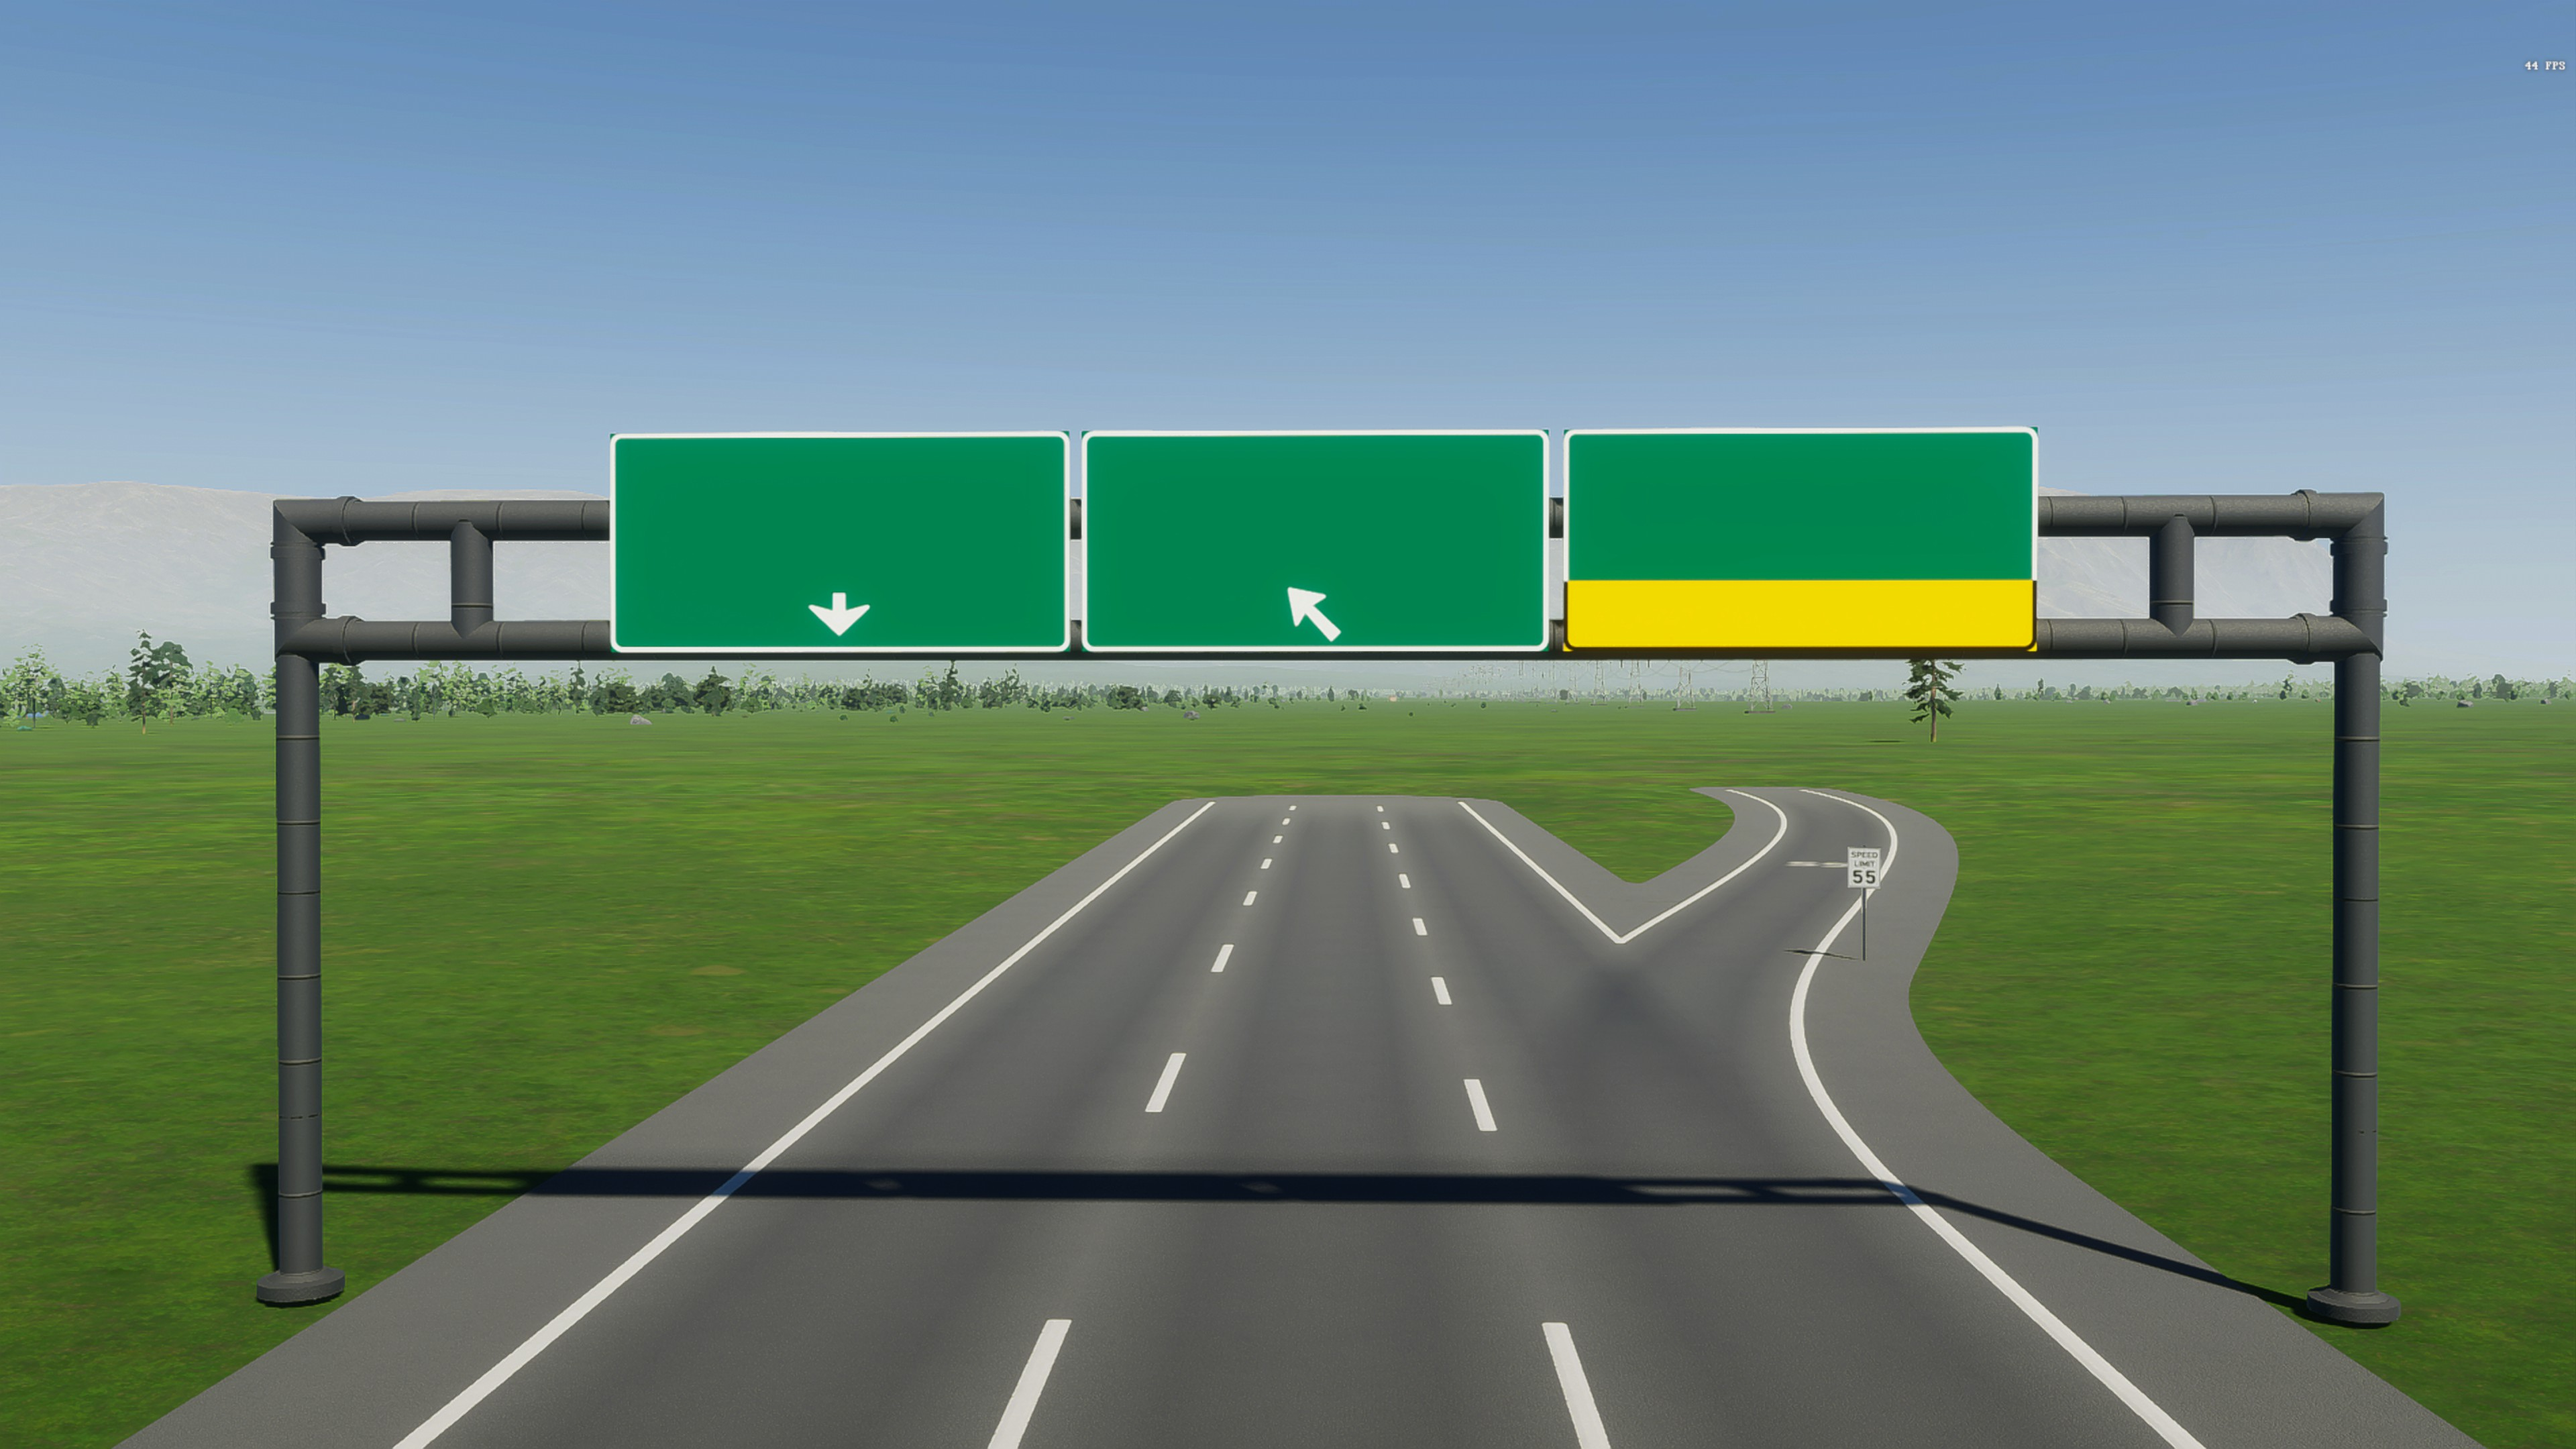
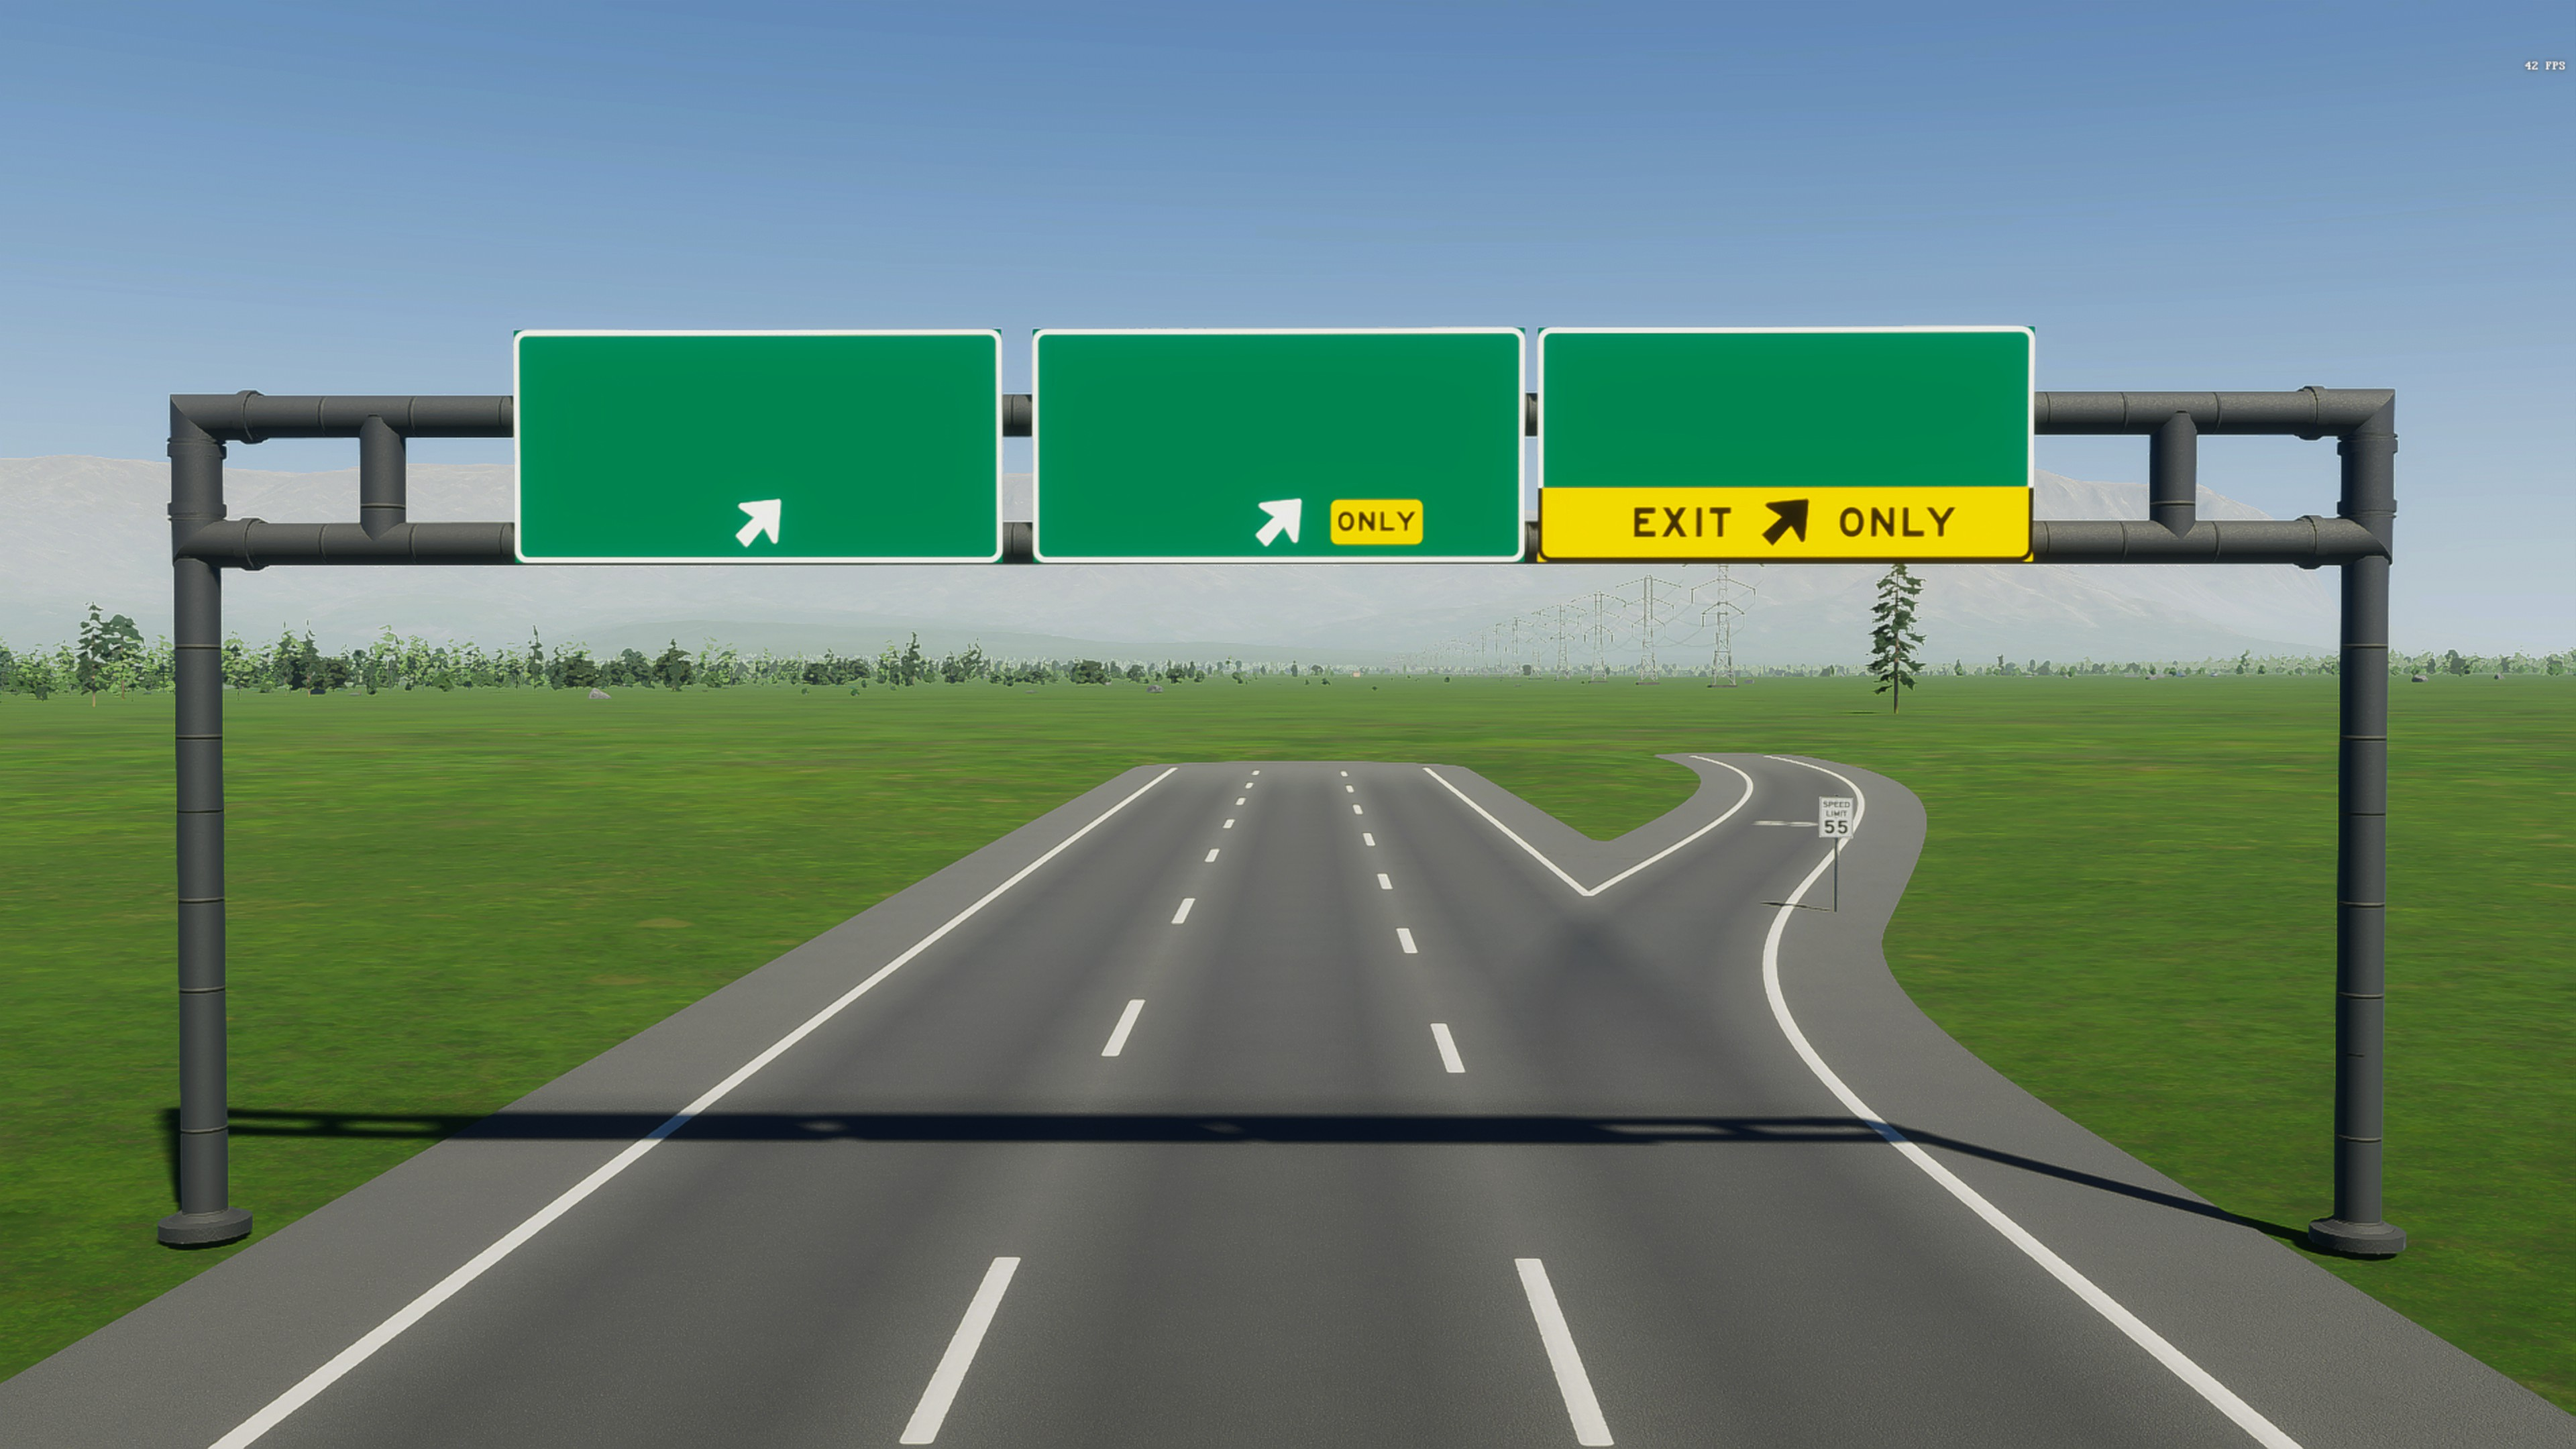
v1.1 Ext1 Atlas pack integration

diff --git a/_BaseModule/README.md b/_BaseModule/README.md
@@ -6,6 +6,7 @@ Hello Cities: Skylines II civil engineers! This is a **Write Everywhere Module**
 
 - 1 Lane (Medium) California Highway (Freeway) signs inspired by California's MUTCD
 - 37 total signs (see screenshots)
+- Additional 41 new signs with exit tab style 1 with Ext1 WE atlas pack (with v1.1 update)
 - WE Layout included for easy implementation onto your highways (freeways)
 
 ## How to Use
@@ -22,7 +23,7 @@ Hello Cities: Skylines II civil engineers! This is a **Write Everywhere Module**
 10. The layout will be added to WE's COMPONENTS TREE window. (see screenshot)
 11. Click the down arrow on 1LM CA Highway Sign.
 12. Select Sign Image.
-13. On the CONTENT window, set Atlas to 1LM CA Highway Signs (WE):1LM CA Highway Signs. (see screenshot)
+13. On the CONTENT window, set Atlas to 1LM CA Highway Signs (WE):1LM CA Highway Signs or 1LM CA Highway Signs (WE):1LM CA Highway Signs Ext1. (see screenshot)
 14. Set Image and customize it to your city needs! (there are plenty of WE Modules on Paradox Mods that include highway shields for use with 1LM CA Highway (Freeway) Signs)
 
 There is some terminology that you can use to determine what sign is what:

diff --git a/_BaseModule/changelog.md b/_BaseModule/changelog.md
@@ -1,2 +1,2 @@
-# v1.0.1
-- Added missing 1LM EO RF1 and 1LM O RF1 signs.
+# v1.1
+- Adds additional 41 new 1LM CA Highway signs with California Exit Tab Style 1 with Ext1 WE atlas pack.
